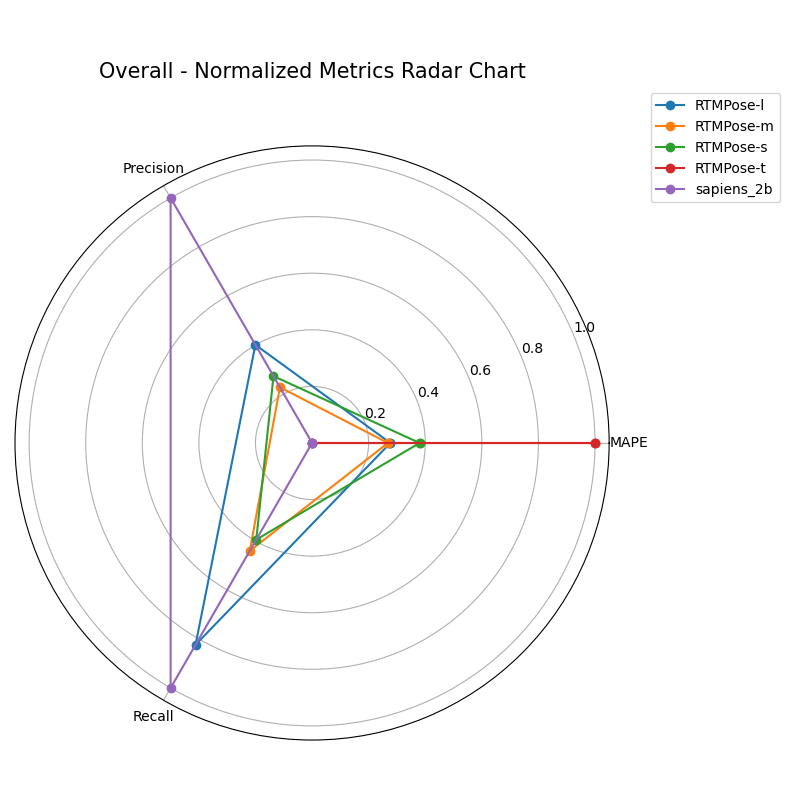
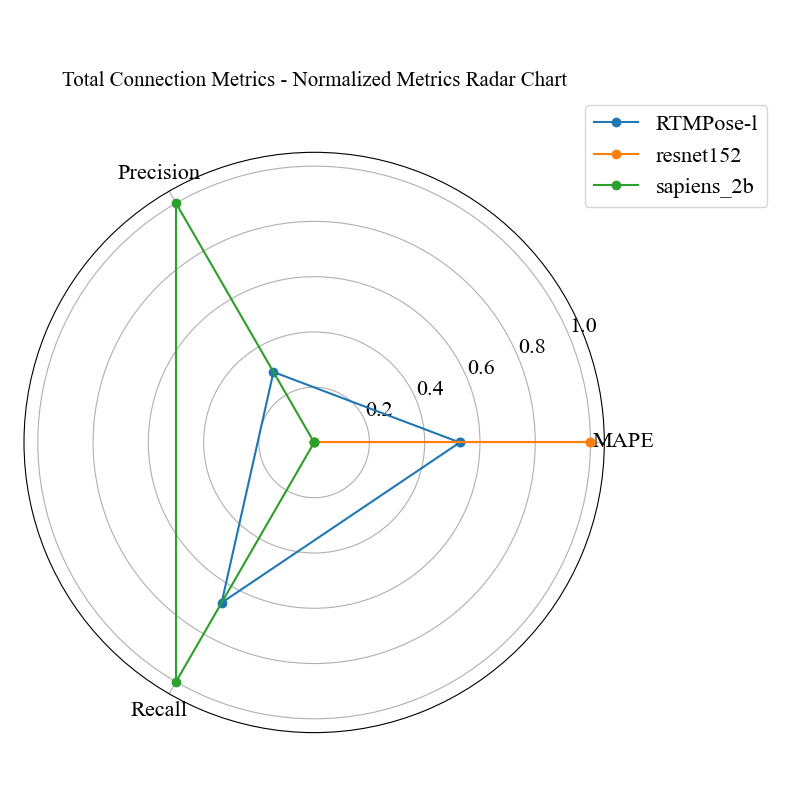
Visualizar modified

diff --git a/output/compare_analysis.py b/output/compare_analysis.py
@@ -10,8 +10,7 @@ from math import pi
 import argparse
 
 plt.rcParams['font.family'] = 'Times New Roman'
-plt.rcParams['font.size'] = 8
-
+plt.rcParams['font.size'] = 16
 # Find analysis.out
 def find_analysis_out_files(root_dir):
     analysis_files = []
@@ -75,7 +74,7 @@ def parse_metrics_from_file(filepath):
                         overall_metrics['Precision'] = float(precision_match.group(1))
                         overall_metrics['Recall'] = float(recall_match.group(1))
                     
-                    metrics['Overall'] = overall_metrics
+                    metrics['Total Connection Metrics'] = overall_metrics
 
     return metrics
 
@@ -104,6 +103,11 @@ def collect_all_metrics(root_dir, exclude_dirs=None):
 # Visualization
 def plot_bar(df, save_dir):
     os.makedirs(save_dir, exist_ok=True)
+    # 에러 지표와 PR 지표를 각각 저장할 하위 디렉터리 생성
+    error_dir = os.path.join(save_dir, 'error')
+    pr_dir = os.path.join(save_dir, 'pr')
+    os.makedirs(error_dir, exist_ok=True)
+    os.makedirs(pr_dir, exist_ok=True)
     skeletons = [col[1] for col in df.columns if col[0] == 'MAE']
     
     has_pr = 'Precision' in [col[0] for col in df.columns]
@@ -111,40 +115,66 @@ def plot_bar(df, save_dir):
     for skel in skeletons:
         data = df.loc[:, pd.IndexSlice[:, skel]]
         data.columns = data.columns.droplevel(1)
-        fig, ax1 = plt.subplots(figsize=(12, 7))
-        
-        num_metrics_left = 2 # MAE, RMSE
-        num_metrics_right = 1 + (2 if has_pr else 0) # MAPE, Precision, Recall
-        total_bars = num_metrics_left + num_metrics_right
-        width = 0.8 / total_bars
 
         x = np.arange(len(data.index))
-        
-        # Left Y-axis: MAE, RMSE
-        ax1.bar(x - width * 1.5, data['MAE'], width=width, label='MAE', color='C0')
-        ax1.bar(x - width * 0.5, data['RMSE'], width=width, label='RMSE', color='C1')
-        ax1.set_ylabel('Value (cm)')
-        ax1.set_xlabel('Directory')
-        ax1.set_xticks(x)
-        ax1.set_xticklabels(data.index, rotation=45, ha="right")
-        ax1.set_title(f'{skel}')
-        
-        # Right Y-axis: MAPE, Precision, Recall
-        ax2 = ax1.twinx()
-        ax2.bar(x + width * 0.5, data['MAPE'], width=width, label='MAPE', color='C2')
-        if has_pr:
-            ax2.bar(x + width * 1.5, data['Precision'], width=width, label='Precision', color='C3')
-            ax2.bar(x + width * 2.5, data['Recall'], width=width, label='Recall', color='C4')
-        ax2.set_ylabel('Value (%)')
-        
-        # Legends
-        h1, l1 = ax1.get_legend_handles_labels()
-        h2, l2 = ax2.get_legend_handles_labels()
-        ax1.legend(h1 + h2, l1 + l2, loc='upper left')
-        
+
+        # --------------------
+        # Error metrics plot (MAE, RMSE, MAPE)
+        # --------------------
+        fig_err, ax_err1 = plt.subplots(figsize=(12, 7))
+        ax_err1.plot(x, data['MAE'], marker='o', linestyle='-', label='MAE', color='C0')
+        ax_err1.plot(x, data['RMSE'], marker='s', linestyle='--', label='RMSE', color='C1')
+        ax_err1.set_ylabel('MAE / RMSE (cm)')
+        ax_err1.set_xlabel('Models')
+        ax_err1.set_xticks(x)
+        ax_err1.set_xticklabels(data.index, rotation=0, ha="center")
+        ax_err1.set_title(f'{skel} - Error Metrics')
+        # 주요/보조 격자 모두 표시하여 더 촘촘한 그리드
+        ax_err1.grid(True, which='major', linestyle='--', linewidth=0.6, alpha=0.8)
+        ax_err1.minorticks_on()
+        ax_err1.grid(True, which='minor', linestyle=':', linewidth=0.4, alpha=0.5)
+
+        ax_err2 = ax_err1.twinx()
+        ax_err2.plot(x, data['MAPE'], marker='^', linestyle='-.', label='MAPE', color='C2')
+        ax_err2.set_ylabel('MAPE (%)')
+        # 보조 축에도 격자 추가 (MAPE)
+        ax_err2.grid(False)  # 보조 축 격자는 주축과 겹치므로 끔
+
+        # 축 반전(오차가 작을수록 위로 보이도록)
+        ax_err1.invert_yaxis()
+        ax_err2.invert_yaxis()
+
+        h1e, l1e = ax_err1.get_legend_handles_labels()
+        h2e, l2e = ax_err2.get_legend_handles_labels()
+        ax_err1.legend(h1e + h2e, l1e + l2e, loc='upper left')
+
         plt.tight_layout()
-        plt.savefig(os.path.join(save_dir, f'{skel}_bar.png'))
+        plt.savefig(os.path.join(error_dir, f'{skel}_error.png'))
         plt.close()
+
+        # --------------------
+        # Precision / Recall plot (if available)
+        # --------------------
+        if has_pr and {'Precision', 'Recall'}.issubset(set(data.columns)):
+            fig_pr, ax_pr = plt.subplots(figsize=(12, 7))
+
+            # Precision / Recall 전용 플롯 (다른 지표는 포함하지 않도록 명시적으로 컬럼 선택)
+            pr_data = data[['Precision', 'Recall']]
+            ax_pr.plot(x, pr_data['Precision'], marker='d', linestyle='--', label='Precision', color='C3')
+            ax_pr.plot(x, pr_data['Recall'],   marker='x', linestyle='-',  label='Recall',    color='C4')
+            ax_pr.set_ylabel('Value (%)')
+            ax_pr.set_xlabel('Models')
+            ax_pr.set_xticks(x)
+            ax_pr.set_xticklabels(data.index, rotation=0, ha="center")
+            ax_pr.set_title(f'{skel} - Precision / Recall')
+            # 주요/보조 격자 모두 표시하여 더 촘촘하게
+            ax_pr.grid(True, which='major', linestyle='--', linewidth=0.6, alpha=0.8)
+            ax_pr.minorticks_on()
+            ax_pr.grid(True, which='minor', linestyle=':', linewidth=0.4, alpha=0.5)
+            ax_pr.legend(loc='upper left')
+            plt.tight_layout()
+            plt.savefig(os.path.join(pr_dir, f'{skel}_pr.png'))
+            plt.close()
 
 def plot_radar(df, save_dir):
     os.makedirs(save_dir, exist_ok=True)
@@ -191,6 +221,7 @@ def plot_radar(df, save_dir):
 def main():
     parser = argparse.ArgumentParser(description="Analyze and visualize metrics from 'analysis.out' files.")
     parser.add_argument('--exclude', nargs='+', help='List of directories to exclude from analysis.')
+    parser.add_argument('--order', nargs='+', help='Custom order of directories to display in plots.')
     args = parser.parse_args()
 
     root_dir = '.'
@@ -211,16 +242,26 @@ def main():
     df.index = pd.MultiIndex.from_tuples(df.index, names=['Directory', 'Skeleton'])
     df = df.sort_index()
     df = df.unstack('Skeleton')
+
+    # 사용자 지정 순서 적용
+    if args.order:
+        specified = [d for d in args.order if d in df.index]
+        if len(specified) < len(args.order):
+            missing = set(args.order) - set(specified)
+            if missing:
+                print(f"Warning: the following directories specified in --order were not found and will be ignored: {', '.join(missing)}")
+        remaining = [d for d in df.index if d not in specified]
+        df = df.reindex(specified + remaining)
     
     if df.empty:
         print("Unstacked DataFrame is empty. Cannot generate plots.")
         return
 
-    # bar plot
-    plot_bar(df, './compare/bar')
+    # line plot
+    plot_bar(df, './compare/line')
     # radar plot
     plot_radar(df, './compare/radar')
-    print('Done! Results saved in compare/bar and compare/radar')
+    print('Done! Results saved in compare/line and compare/radar')
 
 if __name__ == '__main__':
     main() 
